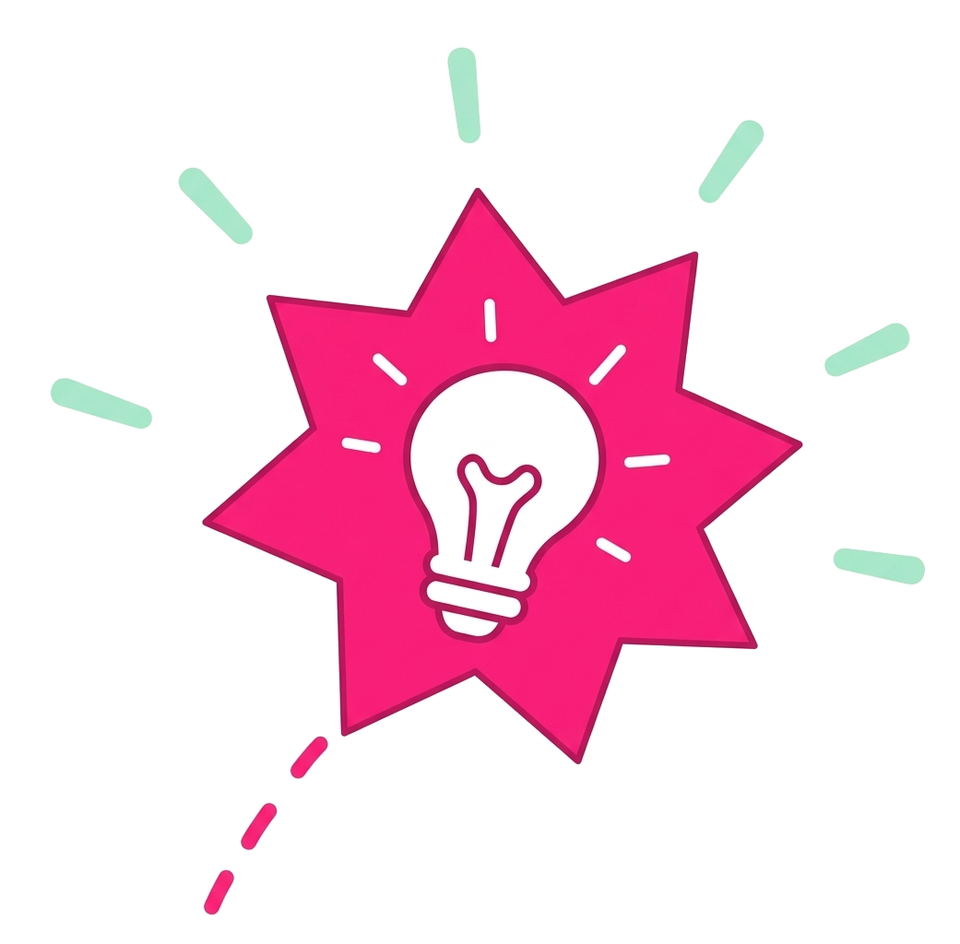
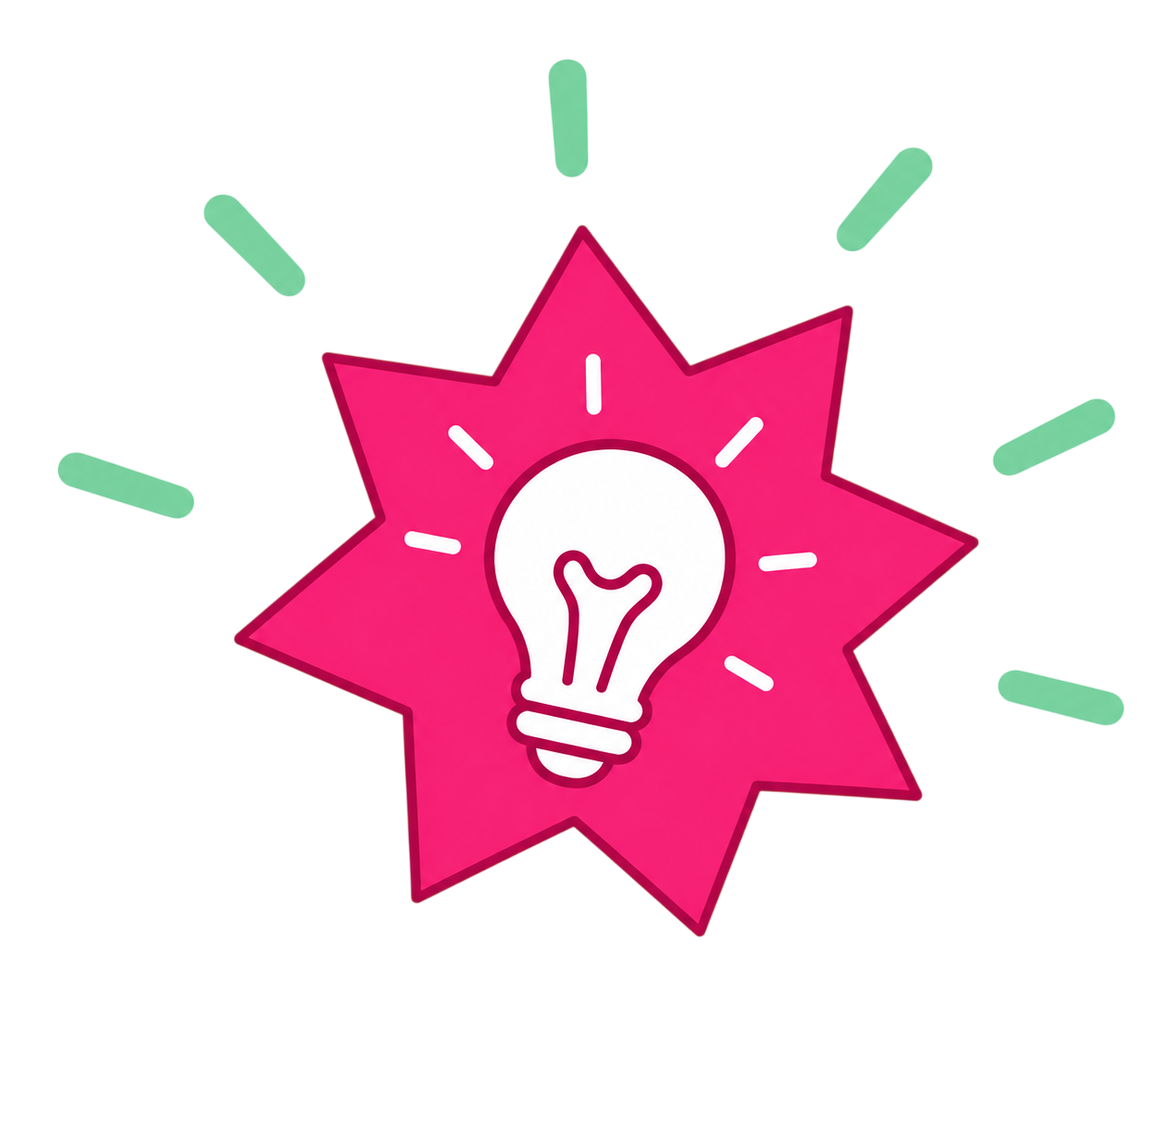
feat(scene1): upgrade hero character scale and redesign mint ribbon horizon

diff --git a/src/components/scenes/v2/Scene1_ProblemSnap.tsx b/src/components/scenes/v2/Scene1_ProblemSnap.tsx
@@ -141,30 +141,56 @@ export const Scene1_ProblemSnap: React.FC = () => {
                     }}
                 />
 
-                {/* 1.5. LỚP ĐỒI SÓNG GIẤY XANH MINT Ở ĐÁY MÀN HÌNH (LAYERED PAPER WAVE - ENTRANCE DÂNG LÊN & GỢN SÓNG) */}
+                {/* 1.5. LỚP ĐỒI SÓNG GIẤY XANH MINT Ở ĐÁY MÀN HÌNH (LAYERED PAPER WAVE - CHUẨN PHỐI CẢNH CANVA STORYBOARD) */}
                 <div
                     style={{
                         position: 'absolute',
                         bottom: 0,
                         left: 0,
                         width: 3840,
-                        height: 380,
+                        height: 960,
                         pointerEvents: 'none',
                         zIndex: 1,
                         transform: `translateY(${waveEntranceY + waveFloatY}px)`,
-                        filter: 'drop-shadow(0 -10px 25px rgba(16, 185, 129, 0.08))',
+                        filter: 'drop-shadow(0 -12px 28px rgba(16, 185, 129, 0.12))',
                     }}
                 >
-                    <svg width="3840" height="380" viewBox="0 0 3840 380" fill="none">
+                    <svg width="3840" height="960" viewBox="0 0 3840 960" fill="none">
+                        <defs>
+                            {/* Gradient xanh mint pastel tươi sáng đặc trưng Canva */}
+                            <linearGradient id="mintWaveGrad1" x1="0%" y1="0%" x2="100%" y2="0%">
+                                <stop offset="0%" stopColor="#C4EFE3" />
+                                <stop offset="40%" stopColor="#B3EADB" />
+                                <stop offset="75%" stopColor="#C6EFE4" />
+                                <stop offset="100%" stopColor="#A8E4D3" />
+                            </linearGradient>
+                            <linearGradient id="mintWaveGrad2" x1="0%" y1="0%" x2="100%" y2="0%">
+                                <stop offset="0%" stopColor="#D8F7EE" stopOpacity="0.85" />
+                                <stop offset="50%" stopColor="#C7F1E5" stopOpacity="0.9" />
+                                <stop offset="100%" stopColor="#B6ECDE" stopOpacity="0.85" />
+                            </linearGradient>
+                        </defs>
+
+                        {/* Lớp sóng giấy mint nền sau (Layer 2 - dâng nhẹ tạo nếp gấp giấy thủ công) */}
                         <path
-                            d="M0,180 C800,90 1400,280 2400,200 C3100,140 3600,260 3840,240 L3840,380 L0,380 Z"
-                            fill="#E2F7F2"
+                            d="M 0, 280 C 450, 290 900, 540 1480, 620 C 2050, 700 2600, 380 3150, 320 C 3500, 280 3720, 320 3840, 340 L 3840, 960 L 0, 960 Z"
+                            fill="url(#mintWaveGrad2)"
+                            transform={`translate(${waveLayer2FloatX * 0.7}, 0)`}
                         />
+
+                        {/* Lớp sóng giấy mint chính tiền cảnh (Layer 1 - Mép trái đỡ Thẻ 3, trũng qua chân Hero, vểnh đỡ đế MacBook) */}
                         <path
-                            d="M0,260 C600,190 1200,320 2000,270 C2800,220 3400,310 3840,290 L3840,380 L0,380 Z"
-                            fill="#D1F2EA"
+                            d="M 0, 220 C 420, 230 880, 520 1520, 660 C 2100, 780 2650, 420 3180, 360 C 3520, 320 3740, 370 3840, 390 L 3840, 960 L 0, 960 Z"
+                            fill="url(#mintWaveGrad1)"
+                        />
+
+                        {/* Đường viền nếp gấp giấy mỏng tạo cảm giác gập nếp thủ công tinh tế */}
+                        <path
+                            d="M 0, 220 C 420, 230 880, 520 1520, 660 C 2100, 780 2650, 420 3180, 360 C 3520, 320 3740, 370 3840, 390"
+                            stroke="#8CE0CB"
+                            strokeWidth="3.5"
+                            fill="none"
                             opacity="0.6"
-                            transform={`translate(${waveLayer2FloatX}, 0)`}
                         />
                     </svg>
                 </div>
@@ -218,25 +244,26 @@ export const Scene1_ProblemSnap: React.FC = () => {
                     />
                 </div>
 
-                {/* 4. KHỐI TRUNG TÂM: MẢNH GHÉP NHÂN VẬT 2.5D ÁO HỒNG TÁCH RỜI */}
+                {/* 4. KHỐI TRUNG TÂM: MẢNH GHÉP NHÂN VẬT HERO CHỦ THỂ 2.5D ÁO HỒNG (CHUẨN TỶ LỆ 75% CHIỀU CAO KHUNG HÌNH) */}
                 <div
                     style={{
                         position: 'absolute',
-                        bottom: 80,
-                        left: 1500,
+                        bottom: 0,
+                        left: 1540,
                         transform: `translateX(-50%) translateY(${charBreathing + jitterY}px) scale(${charScale})`,
+                        transformOrigin: 'bottom center',
                         display: 'flex',
                         flexDirection: 'column',
                         alignItems: 'center',
-                        filter: 'drop-shadow(0 30px 45px rgba(225, 29, 72, 0.22)) drop-shadow(0 10px 20px rgba(0,0,0,0.06))',
+                        filter: 'drop-shadow(0 35px 50px rgba(0, 0, 0, 0.18)) drop-shadow(0 12px 25px rgba(225, 29, 72, 0.16))',
                         zIndex: 4,
                     }}
                 >
-                    {/* Hình ảnh nhân vật chính áo hồng */}
+                    {/* Container nhân vật Hero: Kích thước 1020 x 1650 khớp chuẩn độ phân giải gốc ảnh 972 x 1620 */}
                     <div
                         style={{
-                            width: 760,
-                            height: 1140,
+                            width: 1020,
+                            height: 1650,
                             position: 'relative',
                         }}
                     >
@@ -290,13 +317,13 @@ export const Scene1_ProblemSnap: React.FC = () => {
                                 <div
                                     style={{
                                         position: 'absolute',
-                                        top: 100,
-                                        left: 80,
-                                        fontSize: 72,
+                                        top: 140,
+                                        left: 100,
+                                        fontSize: 90,
                                         color: colors.brandPink,
                                         fontWeight: 900,
                                         transform: `rotate(${Math.sin(frame * 0.1) * 15}deg)`,
-                                        filter: 'drop-shadow(0 4px 10px rgba(225, 29, 72, 0.3))',
+                                        filter: 'drop-shadow(0 4px 12px rgba(225, 29, 72, 0.35))',
                                     }}
                                 >
                                     ❓
@@ -304,13 +331,13 @@ export const Scene1_ProblemSnap: React.FC = () => {
                                 <div
                                     style={{
                                         position: 'absolute',
-                                        top: 60,
-                                        right: 120,
-                                        fontSize: 64,
+                                        top: 90,
+                                        right: 180,
+                                        fontSize: 80,
                                         color: colors.accentYellow,
                                         fontWeight: 900,
                                         transform: `rotate(${Math.cos(frame * 0.1) * 15}deg)`,
-                                        filter: 'drop-shadow(0 4px 10px rgba(251, 191, 36, 0.4))',
+                                        filter: 'drop-shadow(0 4px 12px rgba(251, 191, 36, 0.45))',
                                     }}
                                 >
                                     💭
@@ -318,20 +345,20 @@ export const Scene1_ProblemSnap: React.FC = () => {
                             </>
                         )}
 
-                        {/* BÓNG ĐÈN Ý TƯỞNG EUREKA BÙNG LÊN TRÊN ĐẦU (Frames 480+) */}
+                        {/* BÓNG ĐÈN Ý TƯỞNG EUREKA BÙNG LÊN TRÊN ĐẦU (Frames 480+) - Khớp chuẩn đỉnh đường nét đứt chỉ tay */}
                         {frame >= 480 && (
                             <div
                                 style={{
                                     position: 'absolute',
-                                    top: -90,
-                                    right: 60,
-                                    width: 340,
-                                    height: 340,
+                                    top: -170,
+                                    right: -80,
+                                    width: 540,
+                                    height: 540,
                                     transform: `scale(${eurekaSpring}) rotate(${Math.sin((frame - 480) * 0.08) * 3}deg)`,
                                     transformOrigin: 'bottom left',
                                     opacity: eurekaSpring,
                                     pointerEvents: 'none',
-                                    filter: 'drop-shadow(0 20px 35px rgba(225, 29, 72, 0.4)) drop-shadow(0 4px 10px rgba(0,0,0,0.08))',
+                                    filter: 'drop-shadow(0 25px 45px rgba(225, 29, 72, 0.45)) drop-shadow(0 6px 14px rgba(0,0,0,0.12))',
                                 }}
                             >
                                 <Img
@@ -340,6 +367,7 @@ export const Scene1_ProblemSnap: React.FC = () => {
                                         width: '100%',
                                         height: '100%',
                                         objectFit: 'contain',
+                                        translate: '251.2px -72.2px'
                                     }}
                                 />
                             </div>

diff --git a/docs/audit_and_cinematic_plan_scene1.md b/docs/audit_and_cinematic_plan_scene1.md
@@ -1,0 +1,176 @@
+# BÁO CÁO KIỂM TOÁN (AUDIT) & KẾ HOẠCH NÂNG CẤP ĐIỆN ẢNH SCENE 1
+> **Dự án:** Video Quảng cáo InsurTech TOPbaohiem & InsureGO CMS (Remotion 4K/2K/1080p @ 60fps)  
+> **Phân cảnh kiểm toán:** Scene 1 (`Băn khoăn → Búng tay` / `Scene1_ProblemSnap.tsx`)  
+> **Tài liệu tham chiếu chuẩn quốc tế:** [Vincentwei1021/video-shotcraft](https://github.com/Vincentwei1021/video-shotcraft) (Kỹ nghệ làm phim quảng cáo sản phẩm công nghệ của Apple, Linear, ClickUp, Raycast, Framer...)
+
+---
+
+## I. KIỂM TOÁN HIỆN TRẠNG (AUDIT): THIẾT KẾ GỐC (ẢNH 1) vs VIDEO HIỆN TẠI (ẢNH 2)
+
+Sau khi đối chiếu từng pixel giữa bản vẽ storyboard Canva và bản dựng Remotion thực tế, chúng ta xác định được 3 vấn đề thị giác cốt lõi:
+
+```
+┌────────────────────────────────────────────────────────────────────────────────────────┐
+│ SO SÁNH TRỰC QUAN                                                                      │
+├────────────────────────────────────────────┬───────────────────────────────────────────┤
+│ THIẾT KẾ GỐC CANVA (ẢNH 1)                 │ VIDEO HIỆN TẠI (ẢNH 2)                    │
+├────────────────────────────────────────────┼───────────────────────────────────────────┤
+│ • Nhân vật là "Hero Subject" to lớn,       │ • Nhân vật bị thu nhỏ quá mức (~45%       │
+│   chiếm 75% chiều cao khung hình.          │   chiều cao), lơ lửng cách đáy 80px.      │
+│ • Thân dưới chạm sát đáy màn hình.         │ • Nhìn như sticker nhỏ dán tạm bợ.        │
+│ • Dải lụa xanh mint uốn lượn dâng cao ở    │ • Dải xanh mint bẹp dí ở đáy (380px),     │
+│   trái (đỡ thẻ 3) và phải (đỡ MacBook).    │   màu quá nhạt (#E2F7F2) chìm vào nền.    │
+│ • Không gian có cấu trúc "sân khấu 3 lớp". │ • Bố cục bị rỗng, thiếu trọng tâm.        │
+└────────────────────────────────────────────┴───────────────────────────────────────────┘
+```
+
+### 1. Vấn đề 1: Đối tượng Nhân vật chính (Character Scale & Anchor)
+* **Thực trạng trong code:**
+  - Kích thước hiện tại: `width: 760, height: 1140` trên canvas 4K (`3840 x 2160`).
+  - Vị trí: `bottom: 80, left: 1500`.
+  - Thực tế chiều cao hiển thị chỉ đạt **~45% khung hình**, khiến nhân vật lọt thỏm giữa khoảng không gian mênh mông.
+* **Tác động tiêu cực:**
+  - Khán giả không nhìn rõ nét mặt biểu cảm (từ băn khoăn, nhíu mày sang tươi cười ngộ ra giải pháp).
+  - Nhân vật không đóng được vai trò "trục liên kết" giữa nỗi đau (bên trái) và giải pháp công nghệ (bên phải).
+* **Tiêu chuẩn cần đạt (theo Canva gốc):**
+  - Chiều cao phải đạt **1550px – 1650px** (~75% khung hình 4K).
+  - Điểm tiếp đất: `bottom: 0px` (thân dưới cắt ngang ngực/bụng dưới mép màn hình).
+  - Đỉnh đầu nhân vật vươn cao ngang mép trên của Thẻ giấy số 1.
+  - Cánh tay phải vươn sang che phủ một phần đế bàn phím MacBook, tạo sự gắn kết chặt chẽ về mặt không gian.
+
+---
+
+### 2. Vấn đề 2: Dải lụa xanh mint ở Bottom (Grounding Ribbon Plane)
+* **Thực trạng trong code:**
+  - Đang là 2 đường path SVG mỏng dẹt với `height: 380px`, `fill: #E2F7F2` (độ tương phản quá thấp so với nền kem trắng ngà).
+  - Nằm bẹp ở đáy, không có mối liên hệ hình học nào với các phần tử xung quanh.
+* **Bản chất trong thiết kế gốc Canva:**
+  - Dải xanh mint không phải chỉ là "đồ trang trí cho vui", mà là **Mặt sàn phối cảnh (Visual Horizon Plane)**:
+    1. **Mép trái dâng cao:** Bắt đầu từ tọa độ Y ~ 1450px (chiếm ~33% từ đáy lên), tạo bệ đỡ cho Thẻ giấy số 3.
+    2. **Ở giữa võng xuống:** Uốn lượn mềm mại theo đường cong tự nhiên, ôm trọn lấy phần hông và lưng nhân vật.
+    3. **Mép phải nâng lên:** Tạo thành một "bệ phóng/đế đỡ" cho chiếc laptop MacBook.
+  - Màu sắc phải là tone xanh mint pastel tươi sáng, có độ no màu rõ rệt (`#BCEEE2` / `#9EE5D4`) kết hợp bóng đổ mềm mại (`drop-shadow`) để tách lớp rõ ràng.
+
+---
+
+### 3. Vấn đề 3: Tư duy Dựng phim — "Slide 2D phẳng" vs "Phim Quảng cáo Công nghệ"
+* **Thực trạng:** 
+  - Các phần tử hiện tại đang đi theo lối mòn: Cho từng thẻ trượt từ `translateX(-800)` vào `translateX(0)` rồi đứng yên.
+  - Camera hoàn toàn bất động (Static 1-frame camera).
+  - Đây là tư duy của **slide thuyết trình chuyển động**, khiến video có cảm giác "thụt lùi công nghệ", không thể hiện được tính hiện đại của một nền tảng InsurTech thế hệ mới.
+
+---
+
+## II. HỌC HỎI TỪ VIDEO-SHOTCRAFT: CÁC NGUYÊN LÝ ĐIỆN ẢNH VÀNG
+
+Repo [video-shotcraft](https://github.com/Vincentwei1021/video-shotcraft) cung cấp 124 shot recipes và bộ quy tắc thẩm mỹ (`aesthetic-rules.md`) được đúc kết từ các video quảng cáo phần mềm đỉnh cao. Chúng ta sẽ áp dụng các nguyên lý này trực tiếp vào Scene 1:
+
+### 1. Bộ Quy tắc Thẩm mỹ Áp dụng cho Scene 1
+
+| Mã quy tắc | Tên quy tắc trong Shotcraft | Ứng dụng cụ thể vào Scene 1 của TOPbaohiem |
+| :--- | :--- | :--- |
+| **Q5** | **Đơn chủ thể + Trục hành động trọn vẹn (Single Hero Subject Arc)** | Cảnh mở đầu phải tôn vinh **MỘT CHỦ THỂ DUY NHẤT** làm nhân vật dẫn đường. Nhân vật nam áo hồng là Hero, có hành trình cảm xúc trọn vẹn: *Băn khoăn (cầm điện thoại) → Nhìn thấy cơ hội → Búng tay khai sáng*. |
+| **Q1 & Q10** | **Chất lượng Mockup chuẩn xuất bản (Publishing-grade UI)** | Màn hình MacBook không thể chỉ là khung xám vô hồn (`MOCK UI`). Phải có giao diện bảo hiểm trực quan, sắc nét (Search bar, thẻ gói bảo hiểm AIA/Prudential/Manulife...), tạo cảm giác một sản phẩm công nghệ thật đang hoạt động. |
+| **Q7** | **Đặc tả 2.5D có khối lượng & góc nghiêng (2.5D Perspective Tilt)** | Chiếc laptop không nằm dẹt 2D mà có chiều sâu 2.5D (góc nghiêng `rotateY: -12deg`, `rotateX: 4deg`), tạo cảm giác một thiết bị vật lý sang trọng đang mở ra trước mắt người xem. |
+| **R1 & R3** | **Nhịp thở sau khi tiếp đất & Thời lượng chủ thể ≥ 3s (Breathing & Pacing)** | Các thông tin câu hỏi rơi vào vị trí phải có nhịp tĩnh (hold) ít nhất 0.8s – 1s để người xem kịp đọc và thẩm thấu, không lướt qua quá vội vàng. |
+| **R2** | **Vận tốc từ gia tốc vật lý (Physics & Accelerating Momentum)** | Không dùng chuyển động đều (`linear`). 3 tờ giấy thông tin khi xuất hiện phải rơi xuống với lực quán tính (Spring physics with overshoot), dội nhẹ như giấy thật rơi trên bàn. |
+| **Q3 & R4** | **Camera ổn định, nói không với rung lắc nghiệp dư (Rock-solid Camera)** | Không dùng rung lắc handheld giả tạo. Mọi chuyển động máy quay đều là chuyển động mượt mà của thanh trượt (Dolly / Crane / Pan) có mục đích rõ ràng. |
+
+---
+
+## III. THIẾT KẾ ĐẠO DIỄN: KỊCH BẢN CHUYỂN ĐỘNG ĐA GÓC MÁY (MULTI-SHOT CHOREOGRAPHY)
+
+Thay vì giữ 1 góc máy cố định trong suốt 6 giây, Scene 1 sẽ được vận hành qua **hệ thống Camera Ảo 3D (Virtual 3D Camera)** với 3 phân đoạn thị giác (Acts):
+
+```
+┌────────────────────────────────────────────────────────────────────────────────────────┐
+│ TIMELINE PHÂN CẢNH 1 (0s - 6.0s / 360 frames @ 60fps)                                 │
+├────────────────────┬───────────────────────────────────┬───────────────────────────────┤
+│ ACT 1 (0s - 2.0s)  │ ACT 2 (2.0s - 4.2s)               │ ACT 3 (4.2s - 6.0s)           │
+│ BĂN KHOĂN DỒN DẬP  │ DẢI LỤA MỞ RA & MACBOOK 2.5D      │ CÚ BÚNG TAY KHAI SÁNG (SNAP)  │
+├────────────────────┼───────────────────────────────────┼───────────────────────────────┤
+│ • Camera Dolly-In  │ • Camera Tracking Pan Right       │ • Micro Lens Impact Punch     │
+│   zoom 1.04x nhẹ.  │ • 2.5D Orbit góc nhìn sang Laptop.│ • Character Snap & Smile.     │
+│ • Paper Drop cơ học│ • Laptop trượt vào với dải lụa    │ • Idea Bulb Starlight Burst.  │
+│   theo nhịp beat.  │   Origami 3 lớp cuộn sóng.        │ • 3 thẻ giấy lùi Z-space fade.│
+└────────────────────┴───────────────────────────────────┴───────────────────────────────┘
+```
+
+### Chi tiết từng Act:
+
+#### Act 1: Băn khoăn Dồn dập (Frames 0 – 120 / 0s – 2.0s)
+* **Góc máy:** Medium Shot hơi chếch về bên trái, camera di chuyển tới từ từ (**Dolly In** từ scale `1.00` lên `1.04`).
+* **Hành động:**
+  - Nhân vật chính khổng lồ xuất hiện ở trung tâm, nét mặt đắn đo suy nghĩ, cầm điện thoại.
+  - Từng thẻ giấy note rơi xuống theo nhịp giật tự nhiên (**Paper Drop Effect**):
+    - Frame 15: Thẻ 1 (`Chọn hãng nào?`) rơi xuống dập ghim đanh gọn.
+    - Frame 35: Thẻ 2 (`Quyền lợi ra sao?`) dán đè washi tape hồng.
+    - Frame 55: Thẻ 3 (`Thủ tục có phức tạp không?`) chạm đáy dải mint green.
+  - Mỗi thẻ rơi xuống kèm một nhịp đàn hồi nhẹ (Spring damping: 14, stiffness: 120).
+
+#### Act 2: Chuyển dịch Không gian & Khai mở Công nghệ (Frames 120 – 250 / 2.0s – 4.2s)
+* **Góc máy:** **Camera Pan Right & Subtle 2.5D Orbit**.
+  - Camera lia mượt sang phải và hơi hạ nhẹ góc nhìn, hướng sự chú ý của người xem từ màn hình điện thoại nhỏ sang màn hình MacBook lớn.
+* **Hành động:**
+  - Chiếc laptop MacBook trắng trượt vào từ bên phải với góc phối cảnh `perspective(1600px)` và `rotateY: -14deg → -4deg`.
+  - Dải lụa xanh mint ở dưới đáy uốn sóng nhịp nhàng, nâng đỡ đế laptop.
+  - Dải lụa Origami hồng phía sau bung nở (sẽ triển khai bóc tách 3 dải lướt theo yêu cầu sau).
+
+#### Act 3: Khoảnh khắc Búng tay "Eureka!" (Frames 250 – 360 / 4.2s – 6.0s)
+* **Góc máy:** **Center Re-focus & Lens Punch** (Camera giật nhẹ 1.02x ngay frame búng tay rồi spring êm về 1.0x).
+* **Hành động:**
+  - Nhân vật chuyển đổi biểu cảm sang tư thế búng tay tươi cười.
+  - Bóng đèn ý tưởng (`idea.png`) nổ bung tia sáng (Starlight burst particles).
+  - 3 tờ giấy note câu hỏi lùi dần vào chiều sâu Z (`translateZ: -100px`, `opacity: 0.2 → 0`) thể hiện nỗi lo toan đã được xóa bỏ hoàn toàn.
+  - Sân khấu nhường trọn vẹn sự chú ý cho màn hình hệ sinh thái TOPbaohiem trên laptop.
+
+---
+
+## IV. BẢN VẼ THÔNG SỐ KỸ THUẬT (TECHNICAL BLUEPRINT)
+
+### 1. Thông số Kích thước & Tọa độ Nhân vật (Canvas 3840 x 2160)
+```tsx
+// Cấu hình Hero Character mới:
+const heroCharacterStyle = {
+    position: 'absolute',
+    bottom: 0,                     // Tiếp đất sát mép đáy màn hình
+    left: 1440,                    // Đặt tại vị trí 37.5% chiều ngang (tâm điểm sân khấu)
+    transform: 'translateX(-50%)',
+    width: 1120,                   // Tăng độ rộng từ 760 -> 1120 (+47%)
+    height: 1620,                  // Tăng chiều cao từ 1140 -> 1620 (~75% màn hình)
+    zIndex: 4,
+    filter: 'drop-shadow(0 35px 50px rgba(0,0,0,0.18)) drop-shadow(0 10px 20px rgba(225,29,72,0.15))',
+};
+```
+
+### 2. Thông số Dải lụa Xanh Mint (Organic Mint Horizon)
+```tsx
+// Dải xanh mint mới: Cao độ lượn sóng từ trái qua phải
+const mintWaveSvgPath = `
+    M 0, 1420 
+    C 450, 1420   850, 1780   1440, 1850 
+    C 2000, 1920  2600, 1580  3300, 1540 
+    C 3600, 1520  3780, 1600  3840, 1620 
+    L 3840, 2160  L 0, 2160   Z
+`;
+// Màu sắc: Layer 1: #BCEEE2 (đậm, tươi), Layer 2: #D8F7F0 (bổ trợ chiều sâu)
+```
+
+---
+
+## V. KẾ HOẠCH HÀNH ĐỘNG (ACTION PLAN) & CÁC BƯỚC THỐNG NHẤT
+
+Để đảm bảo chuẩn xác từng bước và tuân thủ nguyên tắc cộng tác chặt chẽ:
+
+1. **Bước 1: Tinh chỉnh Bố cục Tĩnh (Layout Foundation)**
+   - Nâng cấp kích thước nhân vật áo hồng lên tỷ lệ 75% (`height: 1620px`, `bottom: 0`).
+   - Tái tạo đường cong vector dải xanh mint với cao độ chuẩn xác ôm trọn bố cục.
+   - Kiểm tra lại sự tương quan giữa Thẻ giấy 1-2-3, Nhân vật, và MacBook trên màn hình preview.
+2. **Bước 2: Xây dựng Camera Rig Ảo 3D (Shotcraft Camera Rig)**
+   - Bọc toàn bộ scene trong `CameraContainer` với các biến nội suy: `cameraScale`, `cameraPanX`, `cameraTiltY`.
+   - Lập trình nhịp máy quay chuyển dịch từ Act 1 (cận cảnh băn khoăn) sang Act 2 (đặc tả laptop).
+3. **Bước 3: Hiệu ứng Máy bay giấy & Cú búng tay (Deferred to Stage 3)**
+   - Sau khi bạn nghiệm thu bố cục và camera của Bước 1 & 2, chúng ta sẽ bắt tay vào hiệu ứng bóc tách 3 dải lụa máy bay giấy (`maybay_giay.png`) và particle nổ bừng sáng lúc búng tay.
+
+---
+*Báo cáo được lập để bạn thẩm định và cùng trao đổi phương hướng trước khi tiến hành viết bất kỳ dòng code nào.*
